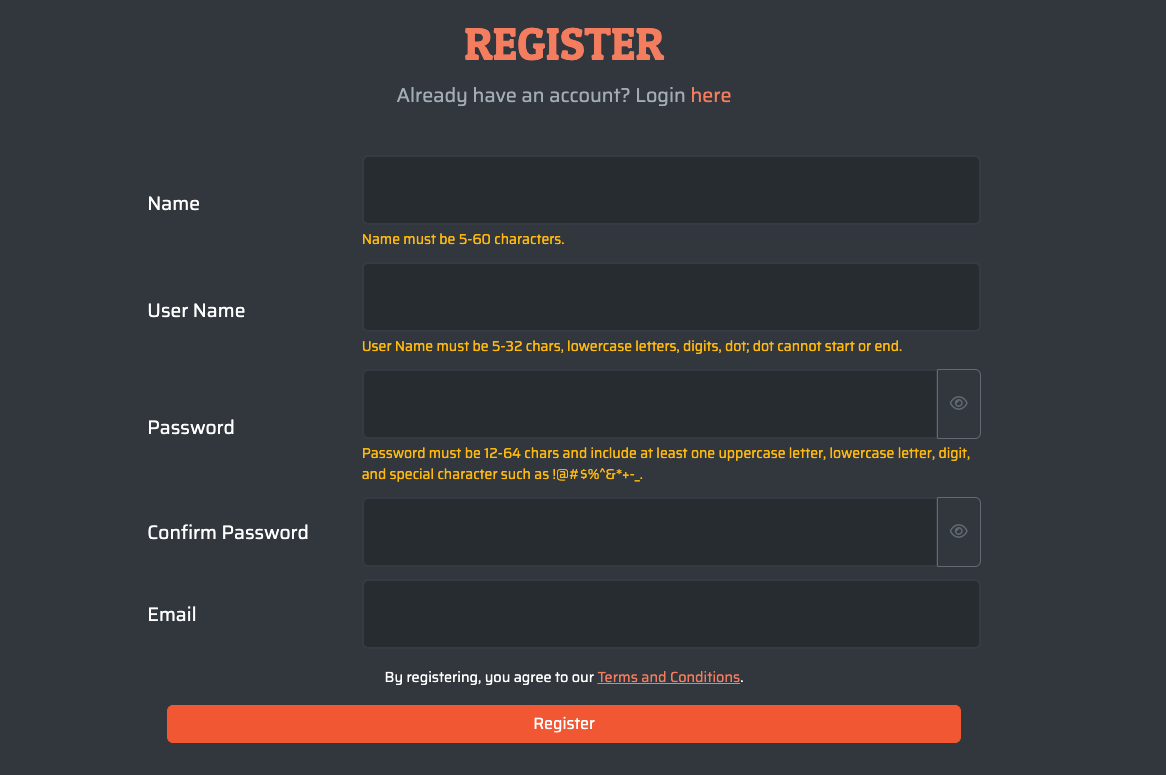
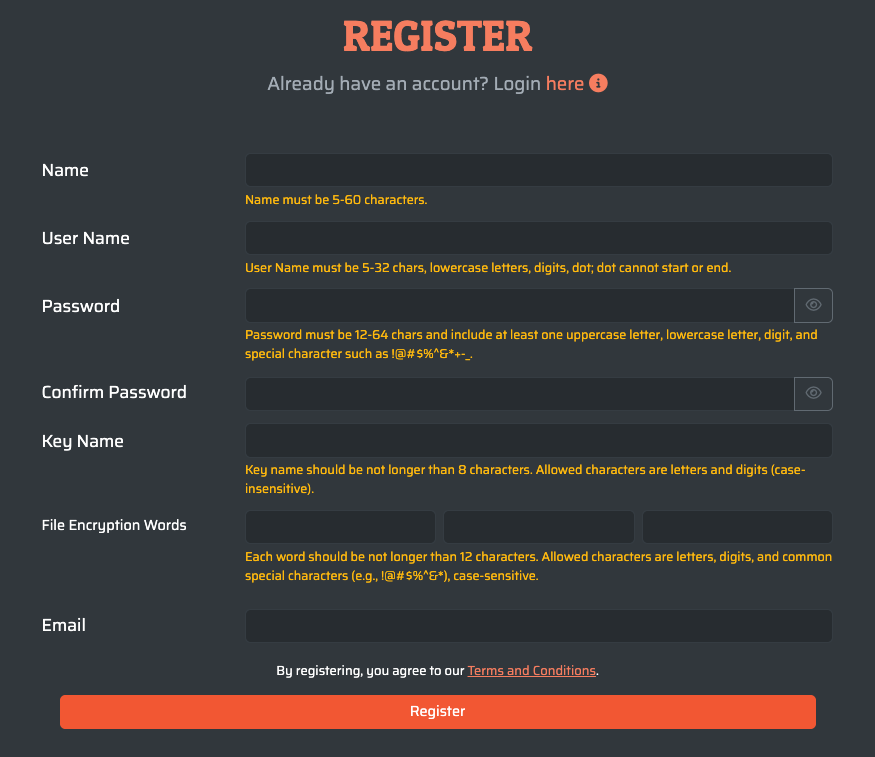
Update document for 0.3.0 release

diff --git a/docs/privacy/data-security.md b/docs/privacy/data-security.md
@@ -1,21 +1,63 @@
 ---
-sidebar_label: Message Storage Security
-sidebar_position: 2
+id: data-encryption-protocol
+title: Data Security & Encryption
+sidebar_label: Encryption Protocol
+sidebar_position: 1
 ---
 
-# Message Storage Security
+# The Duotail Encryption Protocol
 
-All messaged stored on our server are encrypted by a public key generated through user provided key words. We aren't able to read the content because we store neither the key words nor the private key.
+At the heart of our **Zero-Knowledge** architecture is a non-custodial encryption flow. We have engineered our system so that we cannot read your messages, even if we were compelled to. 
 
+Below is the technical breakdown of how your data is protected from the moment it enters our gateway.
 
-1. Customer provides three words and a key name
-2. Our system uses the three words to generate a encrypt key under the key name
-3. Our system stores the encrypt key and key name in our database
-3. When saving messages to file, system encrypts the content using the encrypt key
-4. When customer downloads the file, our system asks the three words under the key name
-5. Our system uses the three words to generate a decrypt key
-6. Our system decrypts the file using the decrypt key and sends the original file to the customer end
+---
 
-Details
+## 🛰 Encryption Flow Overview
 
-![Encryption/Decryption Flow](/img/privacy/encryption-flow.png)
+![Duotail Encryption Flow](/img/privacy/encryption-flow.png)
+
+---
+
+## 🔐 Technical Implementation
+
+Our protocol is divided into three distinct phases: Identity Generation, Message Protection, and Secure Retrieval.
+
+### Phase 1: Key Generation & Registration
+We use a derived-key architecture to ensure we never store your master secret.
+1. **User Entropy:** The customer provides a unique combination of **three words** associated with a **Key Name**.
+2. **Key Derivation:** Our system applies the **Argon2id** hashing algorithm and **X25519** elliptic curve cryptography to generate a high-entropy encryption key. 
+3. **Storage:** Only the **Key Name** and the derived **Encryption Key** are stored in our secure database. Your original three words are never persisted.
+
+### Phase 2: Message Protection (The Airlock)
+When an email enters our gateway, it is neutralized and secured before it touches our disk.  
+4. **Encryption:** Before the system saves any email content, it is encrypted using the **AES-256** algorithm in GCM mode, utilizing the key generated in Phase 1.  
+5. **Association:** Once the encrypted `.eml` file is stored in our file system, we record which **Key Name** was used to secure it. This creates a link without exposing the content.  
+
+### Phase 3: Secure Retrieval
+Retrieval is a "Just-in-Time" process. The decryption key exists only in memory for the duration of your request.  
+6. **Challenge:** When you request a download, our system retrieves the **Key Name** and prompts you for the associated **three words**.  
+7. **Re-Generation:** Using your provided words, the system re-runs the **Argon2id** and **X25519** process to reconstruct the **Decryption Key**.  
+8. **Decryption & Delivery:** The system loads the encrypted file, performs the decryption in a transient memory state, and streams the original file to you. 
+
+---
+
+## 🛡 Why This Matters
+
+* **No Persistence of Secrets:** Because we do not store your "three words," we have no way to reconstruct your decryption key. 
+* **Mathematical Inaccessibility:** Without your unique words, the stored `.eml` files are mathematically indistinguishable from random noise.
+* **Transient Memory:** Decryption keys are generated on-the-fly and are never written to permanent storage.
+
+---
+
+## ❓ Security FAQ
+* **What if I lose my three words?**  
+Because Duotail is a zero-knowledge system, we do not have a "backdoor" to your data. If you lose your three words, any messages already encrypted with that specific key become **permanently inaccessible**. We cannot reset the key for existing files because we never held the secret to begin with.
+
+* **Can I change my encryption settings?**
+Yes. You maintain full control over your security configuration via your **Account Page**. You can update your encryption key at any time by providing a a new **Key Name** and a new set of **Three Words**. 
+    - *Future Emails:* All incoming emails received after the update will be secured using your new credentials.
+    - *Legacy Emails:* Messages previously encrypted will still require the original words used at the time of their arrival.
+
+* **What algorithms do you use?**  
+We rely on industry-standard primitives: **AES-256** for data at rest, and **Argon2id** with **X25519** for key derivation.

diff --git a/docs/tutorials/manage-account.md b/docs/tutorials/manage-account.md
@@ -23,6 +23,39 @@ Use `Change Password` button to update your account login password. You must pro
 
 ![Update Password](/img/tutorials/manage-account/update-password.png)
 
+### Update Encryption Words
+You can rotate your encryption credentials at any time. This is a powerful security feature that ensures your future communications are protected by fresh keys.
+
+#### How to Update
+Click the "Update Encryption Words" button.
+![Update Encryption Key](/img/tutorials/manage-account/update-encryption-words.png)
+A window will appear with two sections: Key Name and File Encryption Words. Fill in your new details and click Save.
+![Update Encryption Key](/img/tutorials/manage-account/update-encryption-words-form.png)
+
+#### Understanding the Form Fields
+If you are new to zero-knowledge encryption, here is exactly what these fields do:
+
+1. **Key Name**  
+    Think of this as a public label for your secret words.  
+    *What it does:* It helps you remember which set of words you are currently using. If you have multiple keys over time, this label tells you which one to use when downloading a specific email.
+    *Rules:* Maximum 8 characters. Use only letters and numbers (e.g., key2026, youguess). It's case insensitive.
+2. **File Encryption Words**  
+    These are your private master keys.   
+    *What it does:* Our system takes these three words and uses them as the "ingredient" to mathematically build a lock for your emails.   
+    *Our Privacy Promise:* We never store these words. They exist only in your mind or your password manager.   
+    *Rules:* Each word must be 12 characters or fewer. You can use letters, numbers, and special characters (like !@#$). These are case-sensitive (e.g., "Apple" is different from "apple").
+
+:::important The "Future-Only" Rule
+When you update your encryption words, the following happens:
+    - New Emails: All emails arriving after the update will be locked with your new words.   
+    - Old Emails: Any emails currently in your buffer were locked with your previous words. To download them, you will still need to provide the words associated with the old `Key Name`.
+:::
+
+***
+
+#### 🛠 Technical Transparency
+Curious about the math? For a full technical breakdown of how we use `Argon2id` and `X25519` to turn your three words into a zero-knowledge lock, visit our **[Data Encryption Protocol](/privacy/data-encryption-protocol)** page.
+
 ### Deactivating Your Account
 
 We believe that true data sovereignty includes the right to leave. If you decide to move on from Duotail, you can manage your departure and data portability directly from your dashboard.

diff --git a/docs/privacy/index.md b/docs/privacy/index.md
@@ -22,7 +22,7 @@ We do not operate like a traditional, permanent email archive. Our gateway acts 
     2. **Automated:** To ensure your digital footprint remains minimal, any message remaining in the buffer is automatically and permanently purged after 30 days.
 * **Irrecoverable Deletion:** Once a purge is triggered—whether manually or automatically—the data is wiped from our active infrastructure and is completely unrecoverable.
 
-*For a full technical breakdown of our `X25519`, `AES-256`, and `Argon2id` implementation, please visit our [Encryption Documentation](./data-security).*
+*For a full technical breakdown of our `X25519`, `AES-256`, and `Argon2id` implementation, please visit our [Encryption Documentation](/privacy/data-encryption-protocol).*
 
 ---
 
@@ -54,6 +54,6 @@ We believe your browsing behavior is your own business.
 
 You maintain full ownership of your routing logic and your presence on our infrastructure.
 
-* **Portable Configuration:** You are never locked in. You may [download your full email configuration](/tutorials/manage-account#1-download-email-configuration) at any time directly from your **[Account Page](/tutorials/manage-account)**.
-* **Account Deactivation:** You may [deactivate your account](/tutorials/manage-account#2-deactivate-account) at any time from your **[Account Page](/tutorials/manage-account)** as well. This instantly terminates all active email routing.
+* **Portable Configuration:** You are never locked in. You may [download your full email configuration](/tutorials/manage-account#1-download-email-configuration) at any time directly from your **Account Page**.
+* **Account Deactivation:** You may [deactivate your account](/tutorials/manage-account#2-deactivate-account) at any time from your **Account Page** as well. This instantly terminates all active email routing.
 * **Scheduled Data Purge:** Following deactivation, your account enters a decommissioned state. To ensure a complete and irreversible wipe, all encrypted records are purged through our **scheduled data purge process**. This process ensures that data is systematically removed from both active clusters and redundant backups, typically finalized within one week.

diff --git a/docs/tutorials/manage-history.md b/docs/tutorials/manage-history.md
@@ -40,7 +40,18 @@ If an email is processed successfully, you will see one of the following statuse
 In rare cases where the system fails to process a record (e.g., corrupted email content), the status will reflect the error, and you will be given the option to download the original file for manual review.
 
 ### Download Email
-If an email is stored in our system, a `Download` button will appear in the Actions column. Clicking this allows you to download the email in .eml format, which can be opened by almost all local mail clients.
+If an email is stored in our system, a Download button will appear in the Actions column. Clicking this allows you to retrieve the message in .eml format, which is compatible with almost all local mail clients (such as Outlook, Apple Mail, or Thunderbird).
+
+The download process depends on whether the record is encrypted:
+
+1. **Encrypted Messages**  
+If the email was secured using your encryption settings, a window will appear prompting you for your three secret words.   
+The Challenge: The window title will display the Key Name (e.g., Encryption Words For: bff) so you know exactly which set of words to provide.   
+The Result: Once you enter the correct words and click Download, our system reconstructs the decryption key in memory, unlocks the file, and begins the download immediately.
+![download-challenge](/img/tutorials/manage-history/download-decryption-form.png)
+
+2. **Legacy or Unprotected Records**  
+If an email record was not protected by an encryption key (for example, older legacy records or specific system notifications), the file will begin downloading to your computer immediately after the Download button is clicked, without a password prompt.
 
 ### Delete Email
 If an email is stored, a `Delete` button will also be available. Clicking this deletes the file permanently; no recovery is possible after this action.

diff --git a/docs/tutorials/register.md b/docs/tutorials/register.md
@@ -14,7 +14,18 @@ To start using our service, begin by registering for a free account. The usernam
 - **Name**: Enter the name you want to use. This will appear as the fallback sender name for all outgoing emails. (Length: 5–60 characters).
 - **User Name**: This is your login ID. It must be between 5–32 characters and may only contain lowercase English letters, digits, and dots. **Note:** A dot cannot be used at the beginning or the end of the username.
 - **Password**: Your password must be between 12–64 characters. It must include at least one lowercase letter, one uppercase letter, one digit, and one special character (any standard English keyboard symbol).
+- **Key Name**: Create a short label (e.g., `mykey1`) to help you identify which secret words are protecting your messages.
+    * **Constraint**: Maximum 8 characters.
+    * **Format**: Alphanumeric only ($A-Z, 0-9$). Case-insensitive.
+- **File Encryption Words**: These three secret words are the "entropy" used to generate your `X25519` encryption key.
+    * **Constraint**: Maximum 12 characters per word.
+    * **Format**: Case-sensitive. Supports letters, digits, and special characters (!@#$%^&*).
+    :::important Crucial
+    We do not store these words. If lost, any emails encrypted with them cannot be recovered.
+    :::
 - **Email**: Provide your primary inbox address where you wish to receive forwarded emails. A confirmation link will be sent here. You cannot use a duotail.com address for this field.
+
+For a detailed explanation of the `Key Name` and `File Encryption Words` fields, please see to [Understanding Encryption Fields](/tutorials/manage-account#understanding-the-form-fields) section.
 
 Once you click the Register button, you will be directed to a "Registration Success" screen. Simultaneously, a confirmation email will be sent to your provided email address.
 
